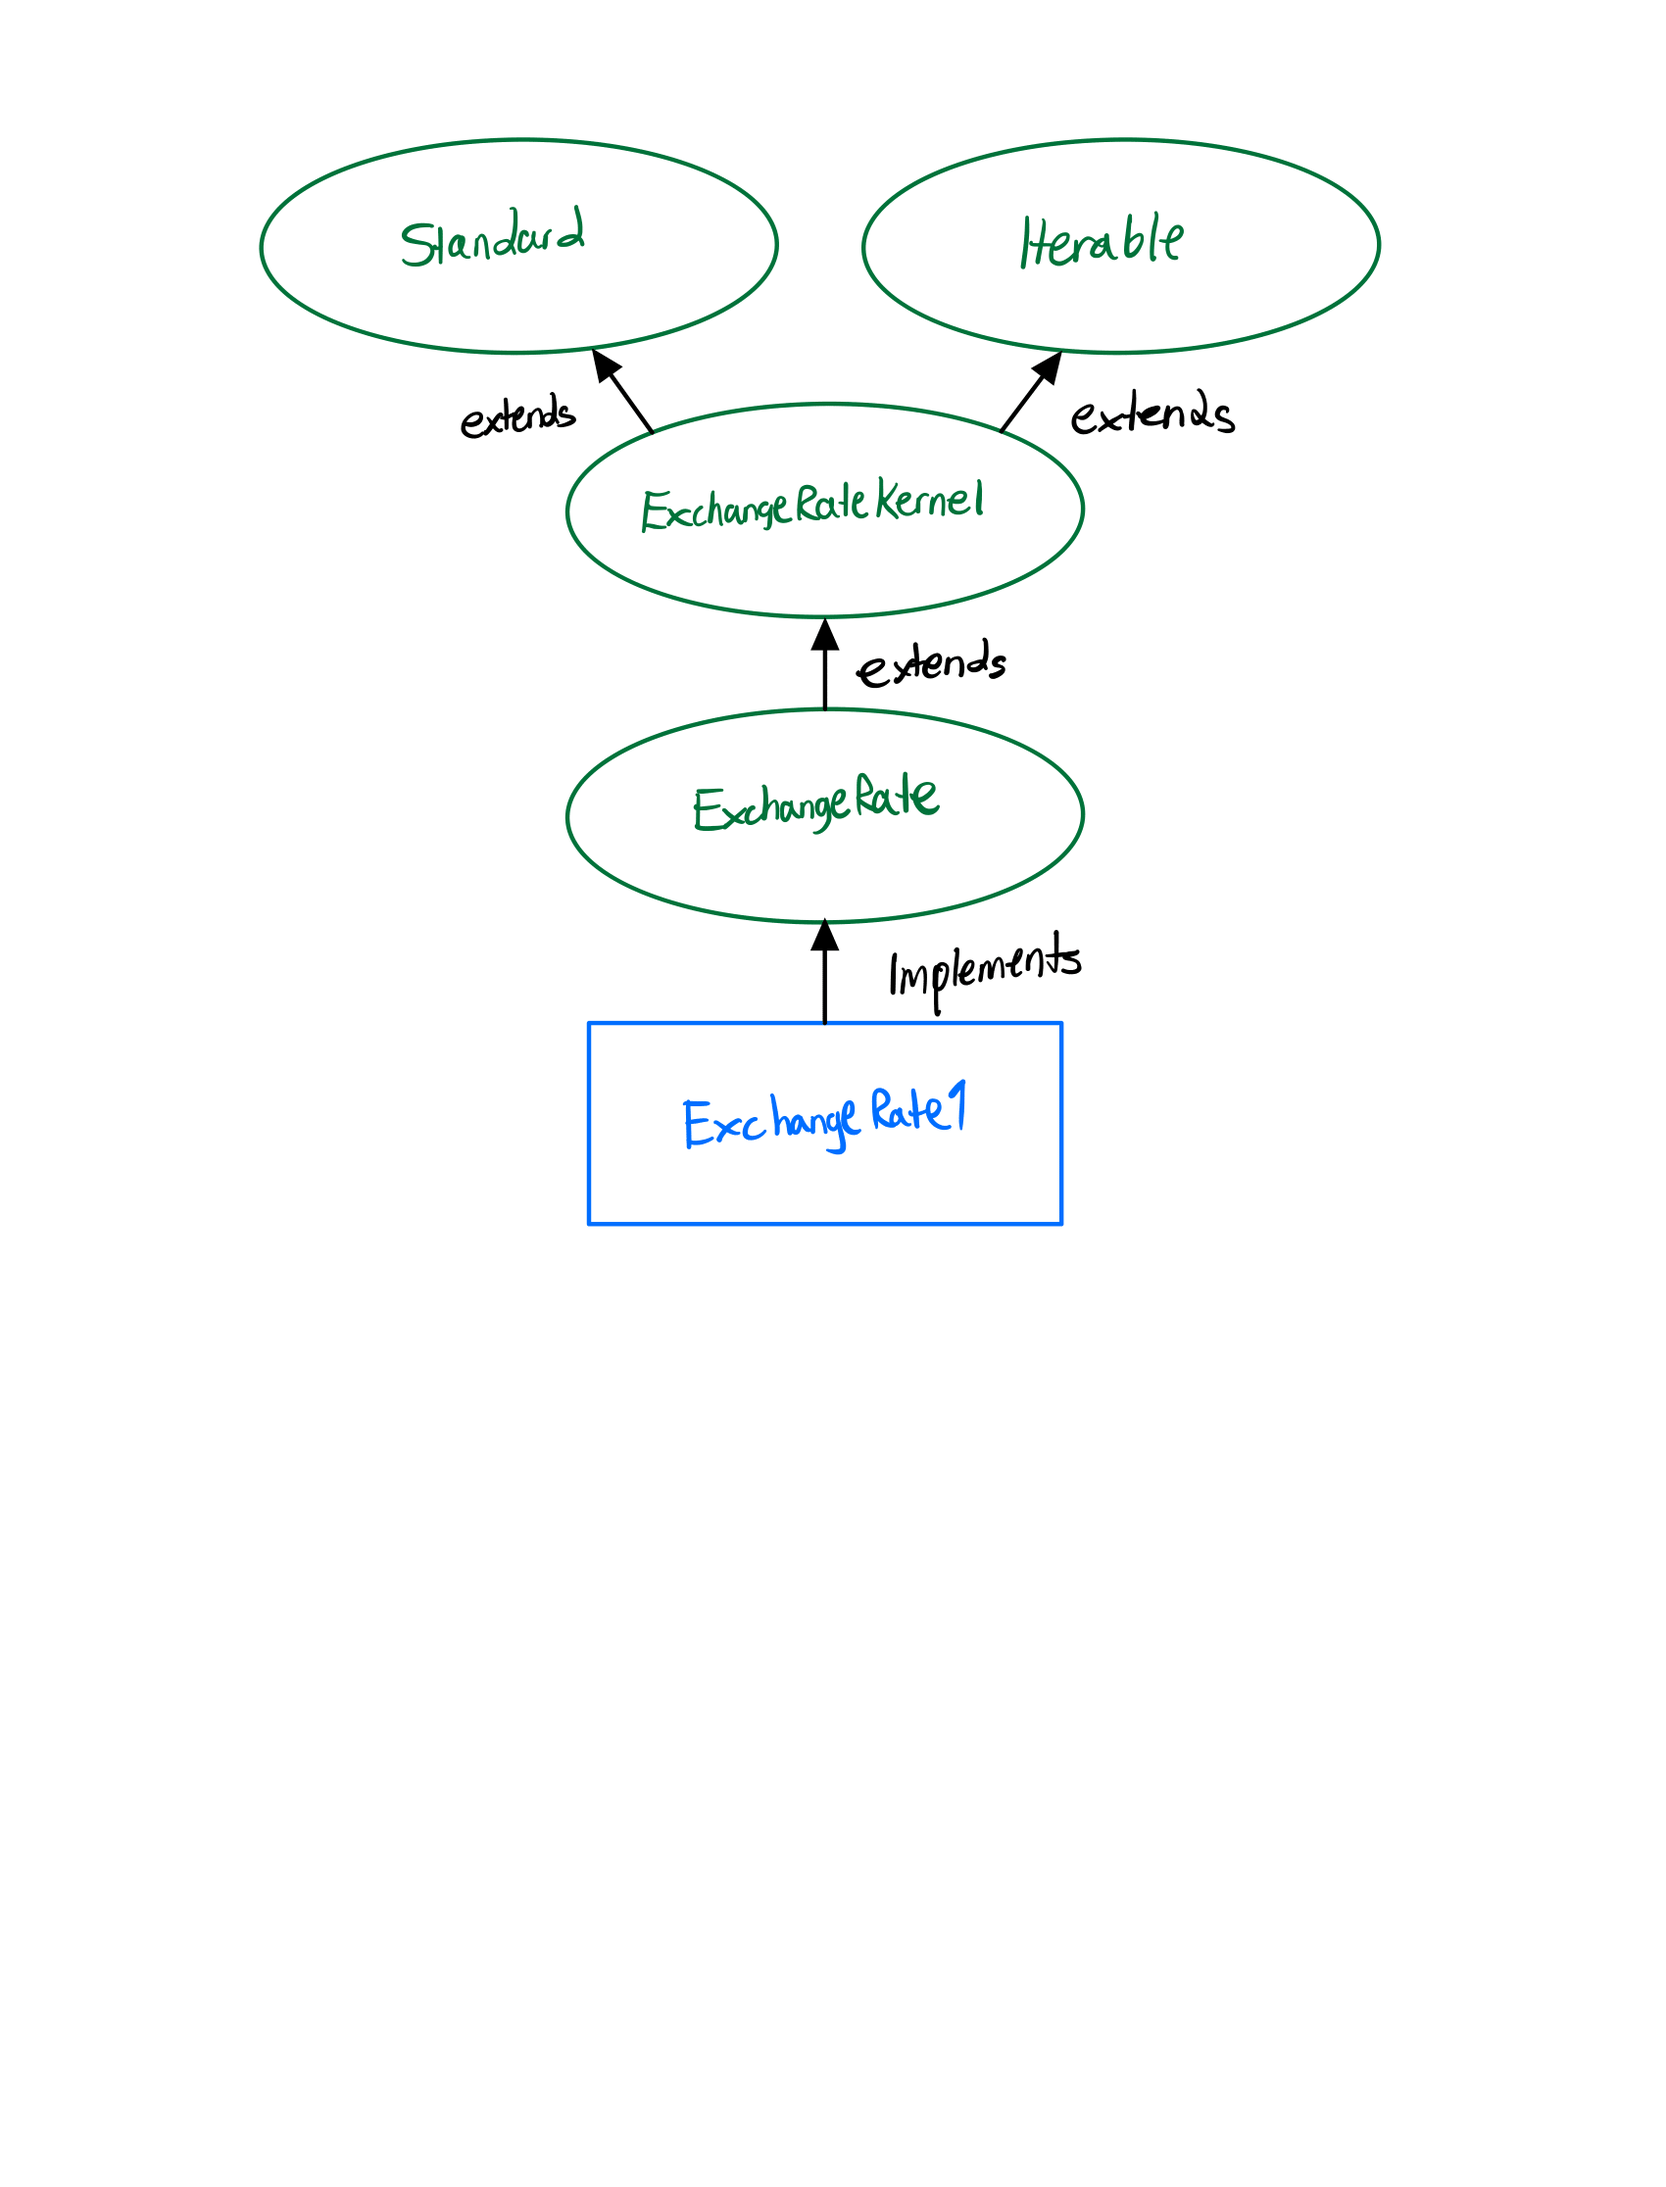
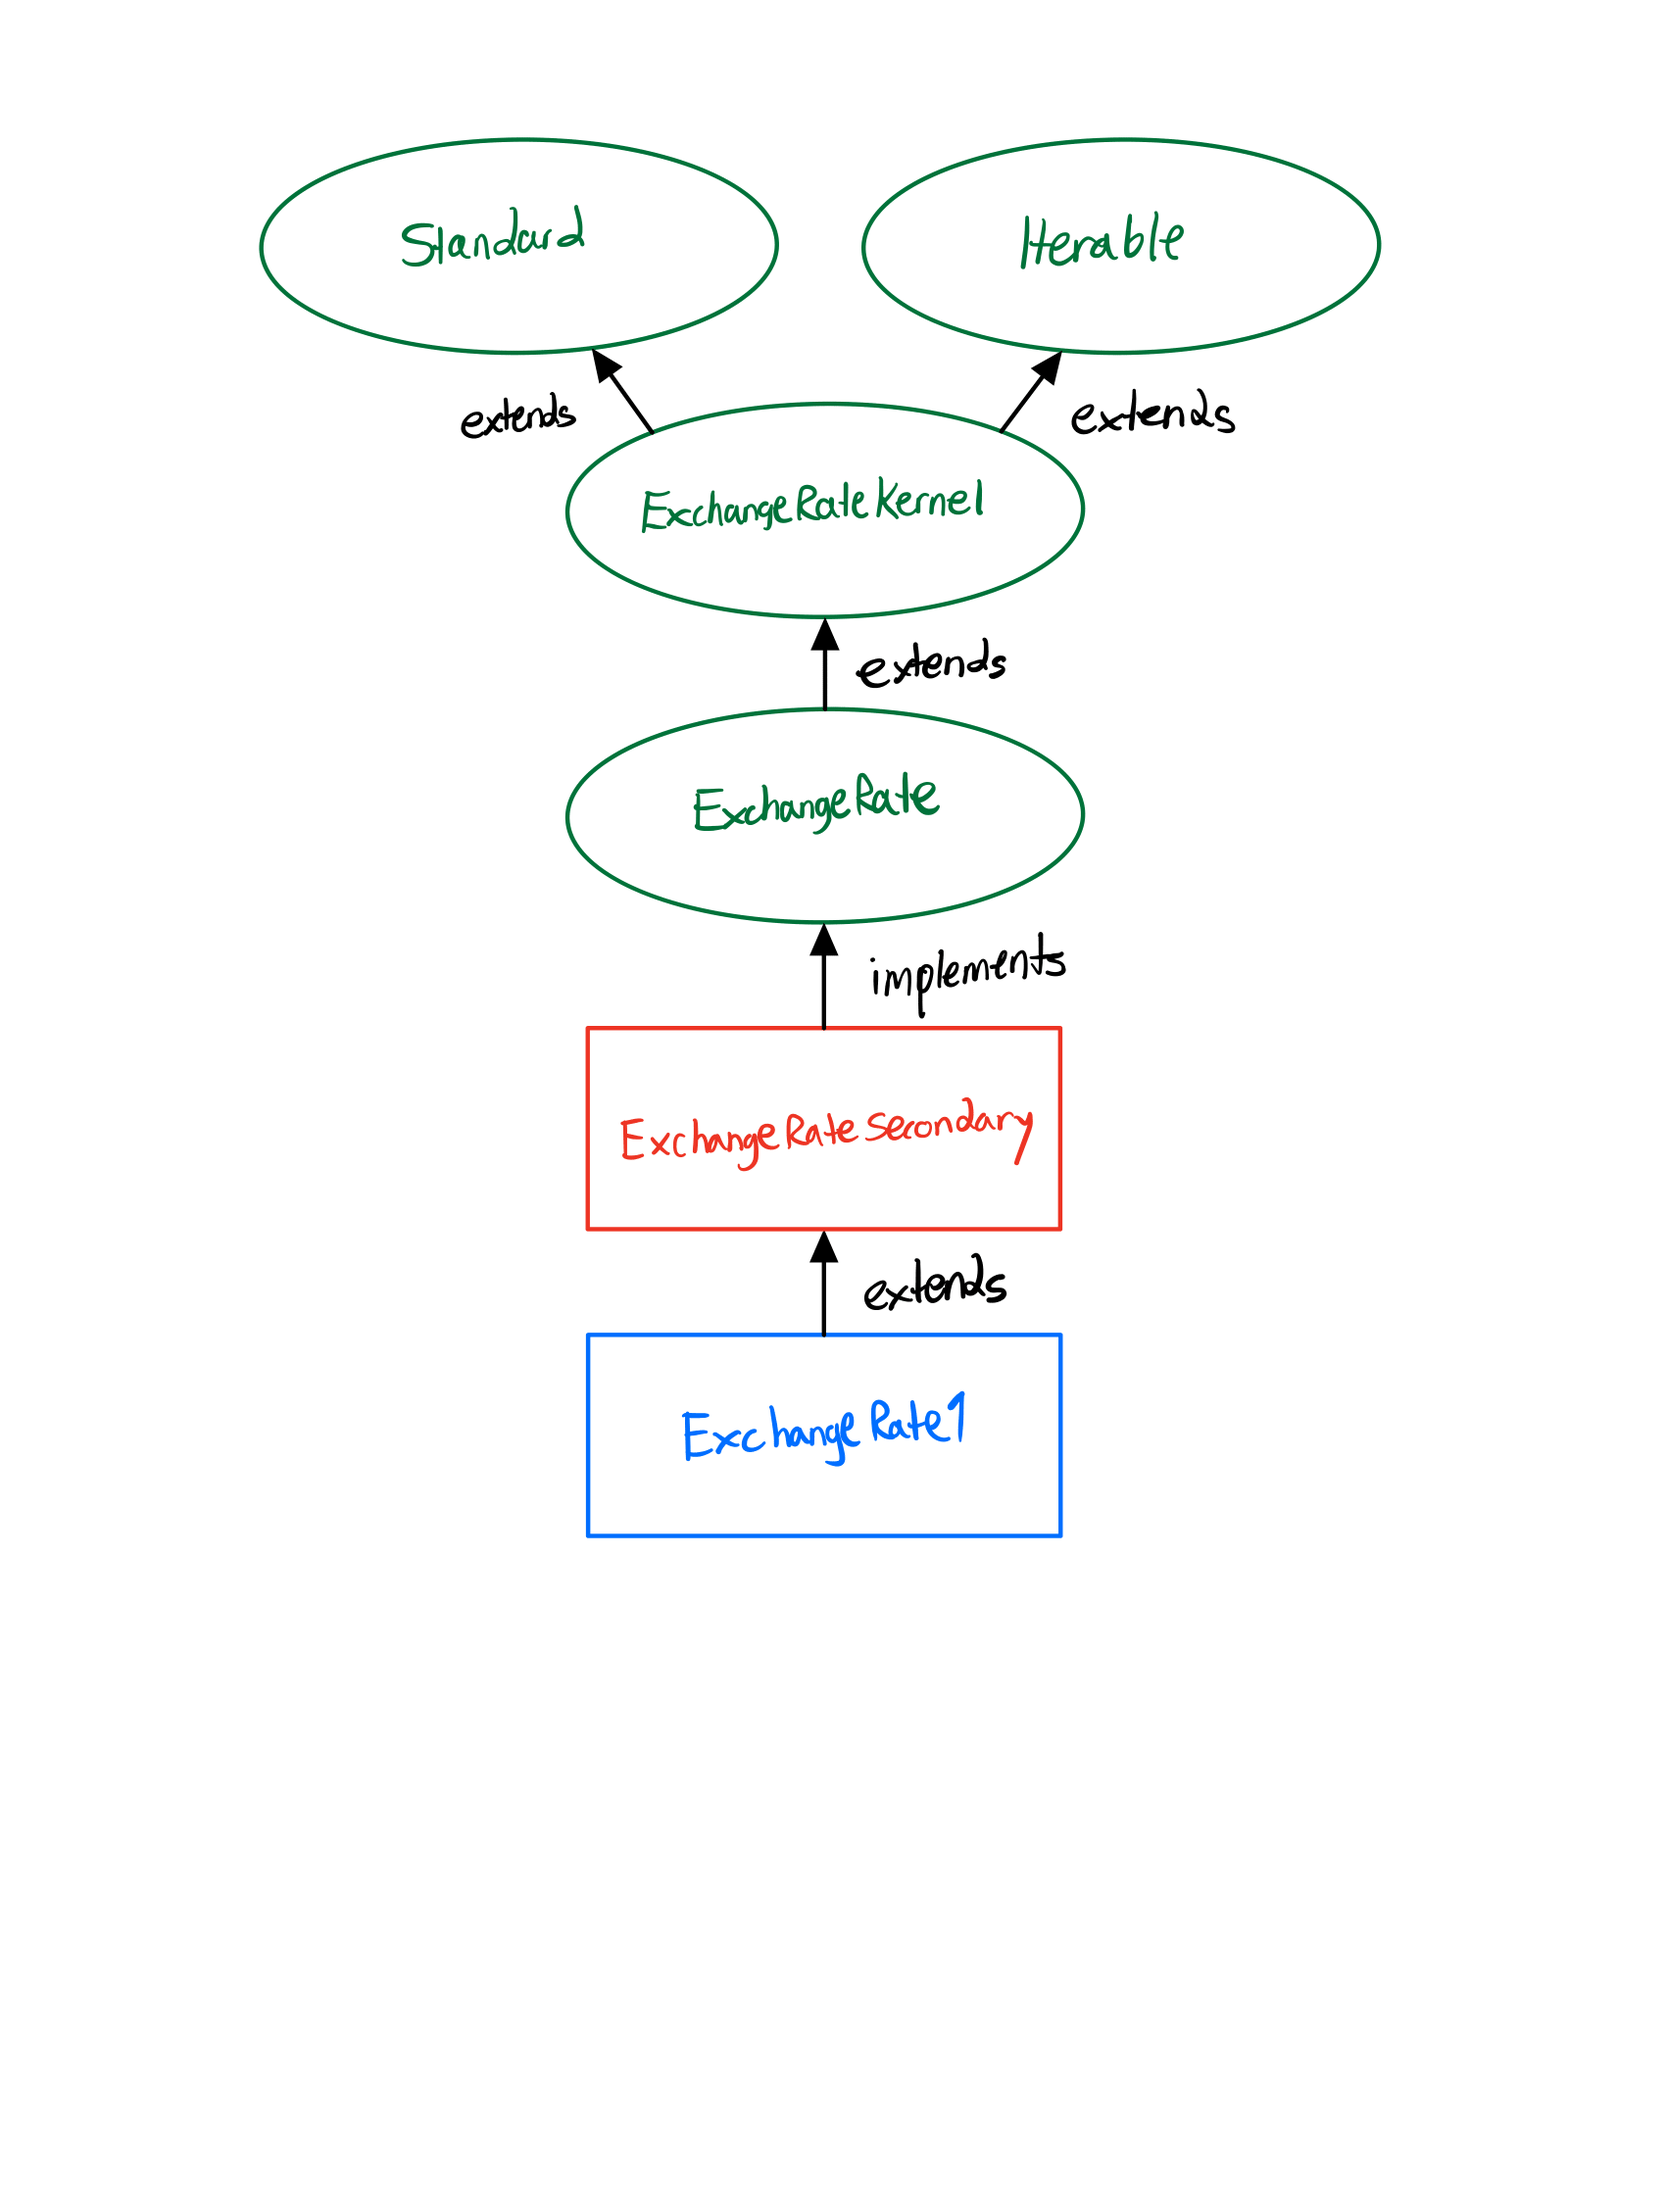
Fixed hierarchy diagram and added the @ensures clause to the mulitplyRate Javadoc.

Changed region(s): [[0.3429, 0.4328, 0.6547, 0.6183], [0.4053, 0.6492, 0.5612, 0.6801], [0.3429, 0.6183, 0.3741, 0.711]]

diff --git a/src/ExchangeRateSecondary.java b/src/ExchangeRateSecondary.java
@@ -36,6 +36,7 @@ public abstract class ExchangeRateSecondary implements ExchangeRate {
      *
      * @param inflationRate
      *            the rate that {@code this} is multiplied by.
+     * @ensures this = #this * inflationRate
      */
     @Override
     public void multiplyRate(ExchangeRate inflationRate) {

diff --git a/src/ExchangeRate.java b/src/ExchangeRate.java
@@ -11,6 +11,7 @@ public interface ExchangeRate
      *
      * @param inflationRate
      *            the rate that {@code this} is multiplied by.
+     * @ensures this = #this * inflationRate
      */
     void multiplyRate(ExchangeRate inflationRate);
 
